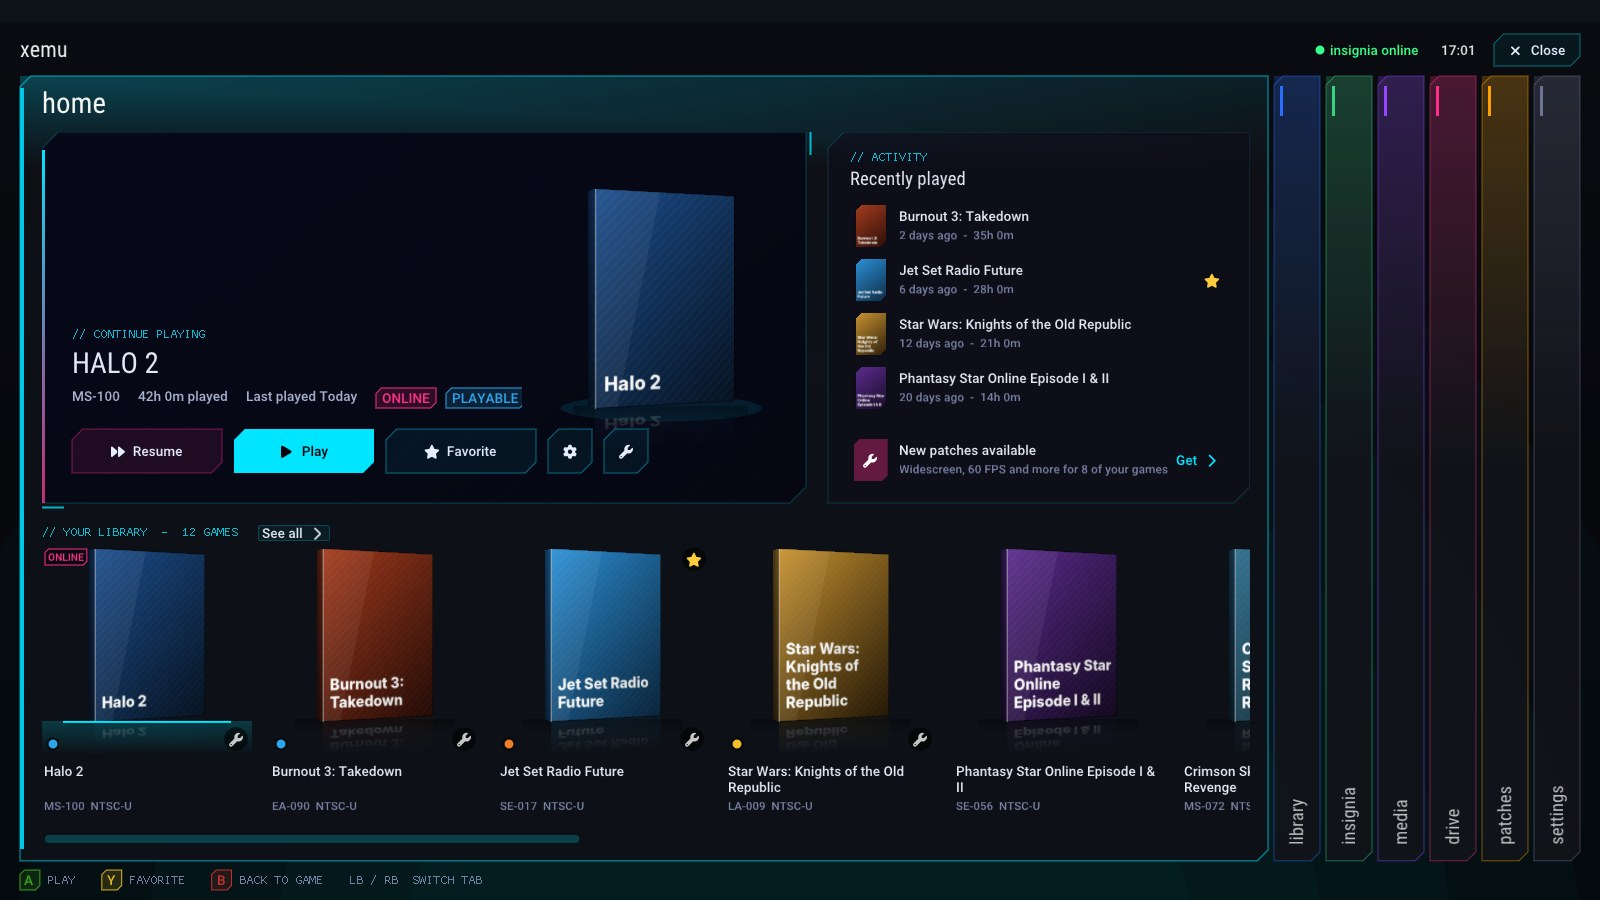
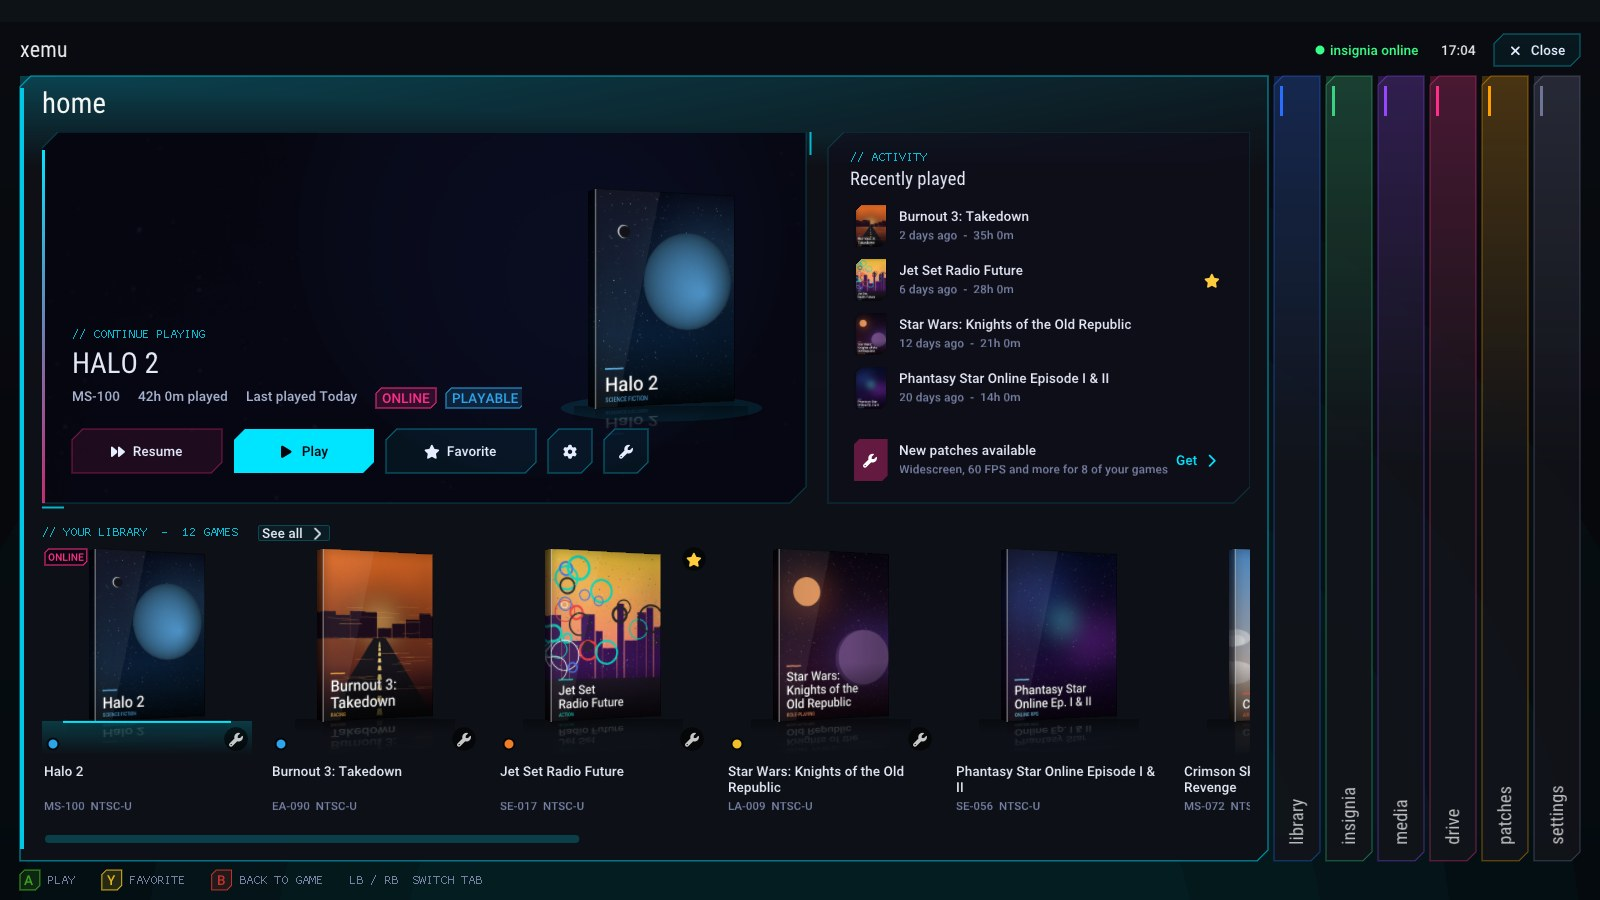
README: Screenshots with painted placeholder covers
Replace the flat gradient placeholders in the example screenshots with
original painted covers (a scene per genre with the title), and say in
the caption that they aren't the real box art.

Claude-Session: https://claude.ai/code/session_019Gr5W4qmmyCDZGv1HdNHkG

diff --git a/README.md b/README.md
@@ -21,7 +21,7 @@ quality-of-life features on top of the official release.
 |---|---|---|
 | ![Blades](docs/screenshots/blades.jpg) | ![Metro](docs/screenshots/metro.jpg) | ![Classic](docs/screenshots/classic.jpg) |
 
-<sub>Screenshots use placeholder cover art and example compatibility ratings.</sub>
+<sub>Screenshots use original placeholder cover art (not the real box art) and example compatibility ratings.</sub>
 
 ## Download
 
